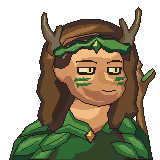
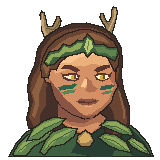
[skip deploy] 묶음 S1 드루이드 1장

diff --git a/assets/dot-src/portraits/note.md b/assets/dot-src/portraits/note.md
@@ -1,0 +1,3 @@
+berserker #281920,#383041,#463033,#503126,#511F25,#595365,#642322,#70372C,#733C33,#79503B,#827D89,#922832,#9B5640,#A46C48,#A53628,#B0A6A4,#C27750,#C53D36,#E59B68,#E64E32,#EF6042,#F97B48,#FFC489,#FFE4AE,#FFF1D5 · rogue #141A2B,#1B2539,#1C5559,#26374D,#295D60,#297D79,#354D66,#4B3230,#50677F,#536779,#53AB9E,#667E93,#71483C,#76513D,#8399AA,#A1E2C2,#A56C4E,#B9875A,#D29366,#D5E1DE,#E9B284,#FFF1D5 · archer #28231C,#293B2F,#293D2D,#425E35,#486933,#4B2A23,#58302A,#62412D,#699346,#74442B,#798659,#8E633D,#91BB55,#A2683B,#A35F4C,#AA6259,#B59260,#C6DF83,#C98261,#CB9154,#D2DDA5,#ECA87E,#FFD0A4,#FFDFB5,#FFF2D3 · engineer #21507B,#2B211E,#337EAD,#344151,#503027,#51312C,#51423D,#546373,#57B4ED,#644B3E,#72422E,#725851,#754831,#8496A4,#995A47,#A16B42,#A3613D,#AA7D5C,#AFE3F2,#C28E56,#C37D5F,#C3D0CF,#CA8C54,#D5AE7D,#E4A17B,#E7AE70,#FFC79A,#FFDAB3,#FFF2DE
+necromancer #21192E,#302445,#303441,#32566B,#493261,#4D536C,#518498,#53596A,#555468,#624784,#675A65,#707990,#7CBED1,#8067A8,#818B96,#9BA5B3,#A39A98,#A8E0FF,#BDC8CE,#C5C2AD,#D9DFD9,#E0FAF7 · pyromancer #342126,#49252A,#543032,#5C3229,#632C24,#71332E,#895238,#90543C,#985028,#9E5447,#B93F29,#BF8250,#C89048,#C97C66,#D37132,#EDAA89,#EE6633,#F3993D,#FFAC48,#FFC160,#FFD0AC,#FFDF89,#FFE0BA,#FFF3D6 · priest #344F76,#3C302B,#639DB7,#69403A,#836037,#855E32,#9CA6B4,#A36654,#B69454,#B98A49,#CA8B72,#D7DCE0,#E0BB67,#E4B959,#EAB093,#F5D789,#F5EBD6,#F9CCAB,#FFDB80,#FFE0BA,#FFE7A5,#FFF6E4,#FFFAE9 · druid #29241F,#293E32,#2B644A,#3F6040,#443028,#588456,#59352D,#60824C,#615033,#694433,#6A553D,#8A5544,#8E6042,#8FA758,#9A7E55,#AF7052,#B8C770,#C6A77B,#D49165,#D6AD61,#D7A740,#EBB17D,#FAC591,#FFF0CE
+얼굴형·눈매·입 모양 개별 설계, 왼쪽 위 광원과 직업별 머리·장비 실루엣 적용.
